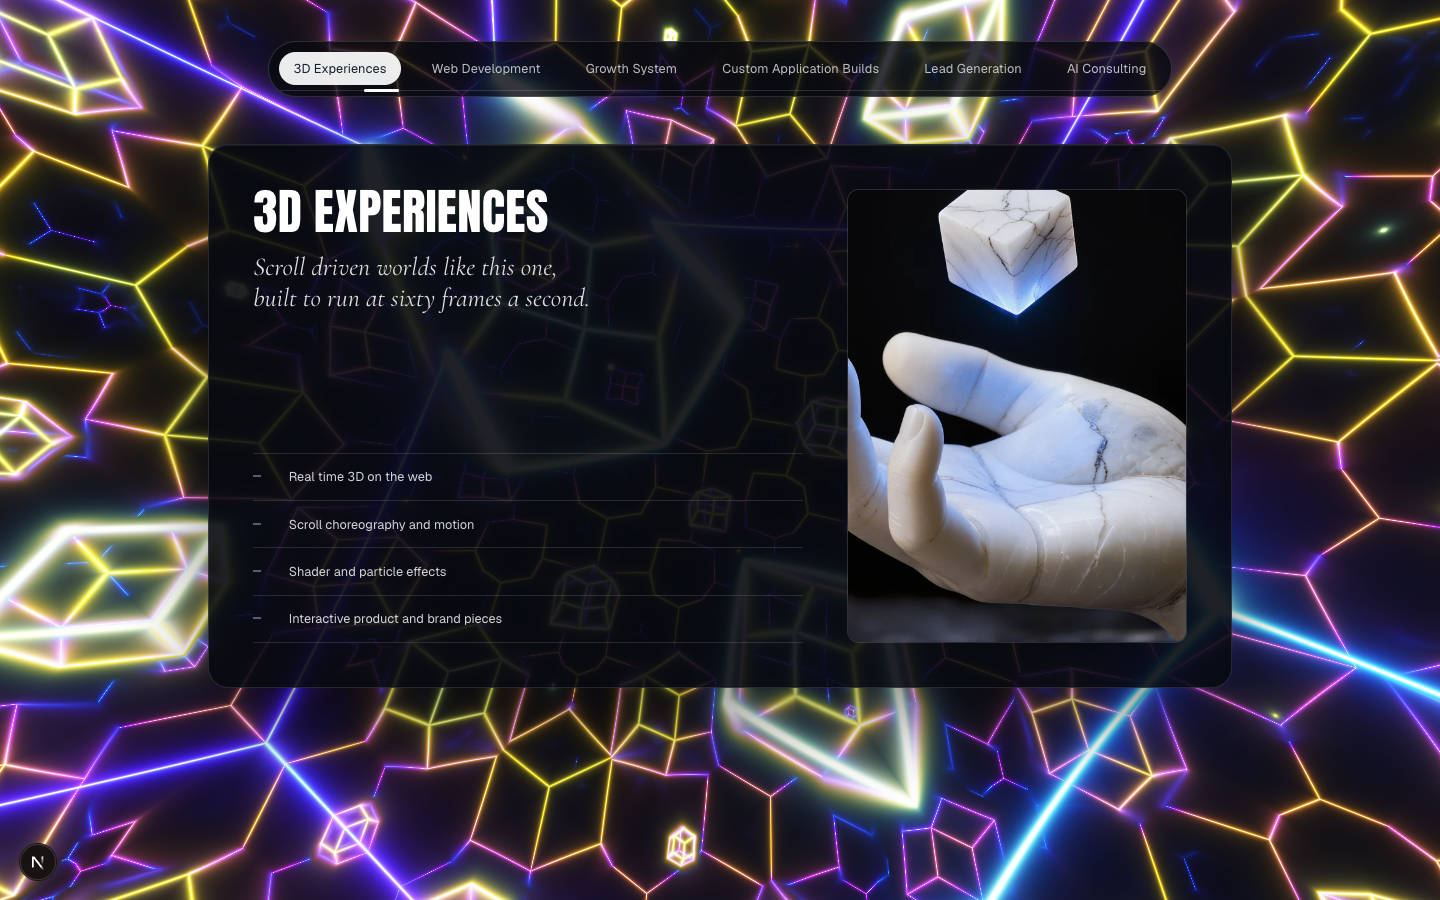
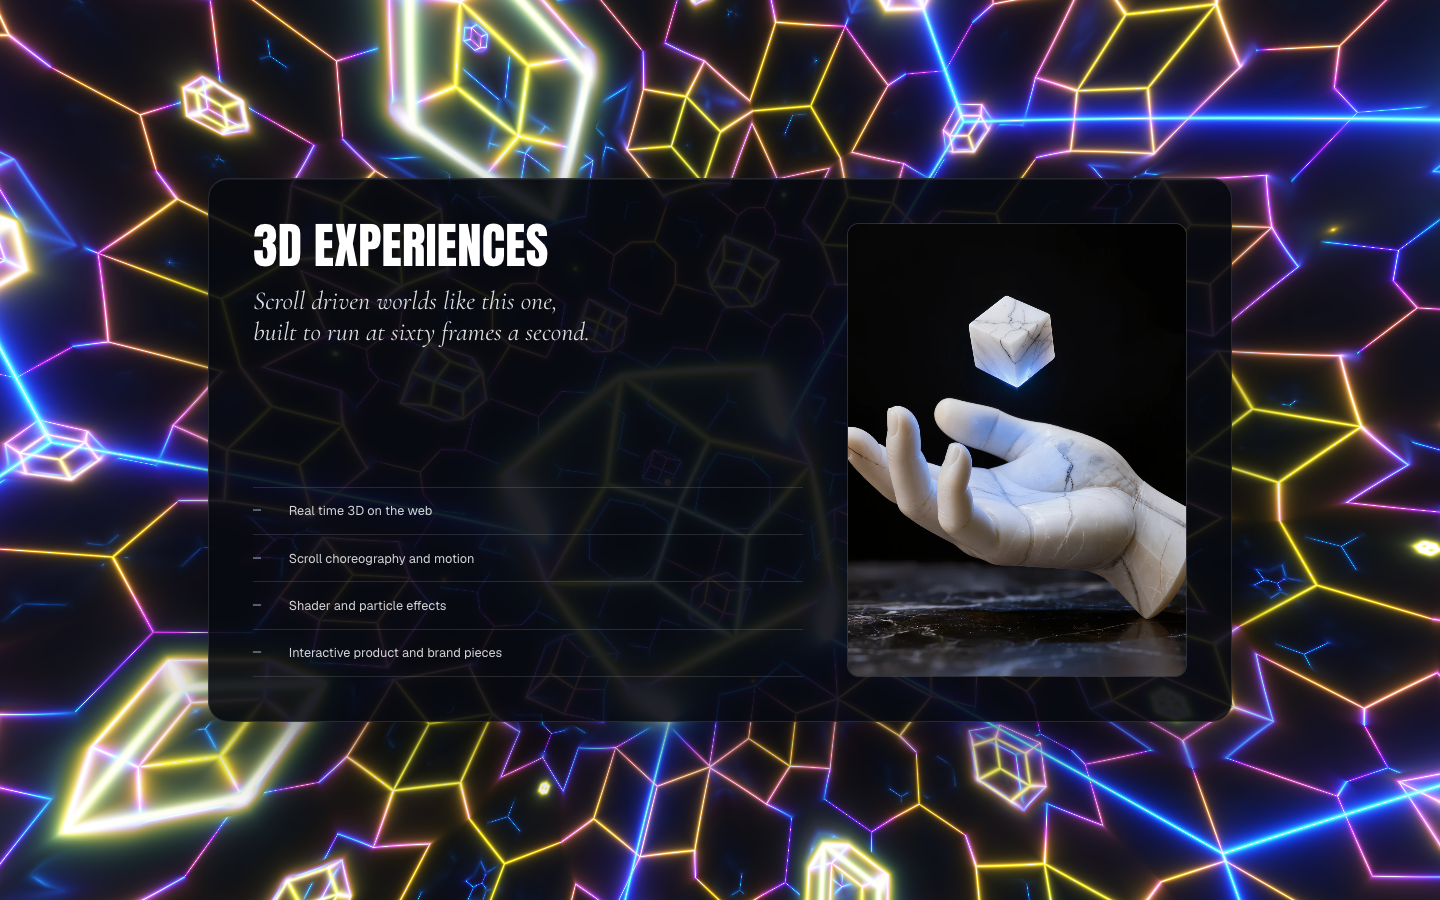
Services as a scroll driven deck: cards slide in from the right, hold, leave left; heading and tab bar removed
Claude-Session: https://claude.ai/code/session_01NAdPXLUXCGhh82qBsMYyAh

diff --git a/src/hero/ServiceTabs.tsx b/src/hero/ServiceTabs.tsx
@@ -1,25 +1,17 @@
 "use client";
 import { useEffect, useRef, useState } from "react";
-import { SERVICES, SECTION_HEADING } from "@/portal/services";
-import { onProgress, progress, scrollControl } from "./progress";
-import { HERO_FRACTION, Q, remap } from "./beats";
-import { holdCentre, qForTruck, railX } from "@/portal/rail";
+import { SERVICES } from "@/portal/services";
+import { onProgress, progress } from "./progress";
+import { Q, remap } from "./beats";
+import { railX } from "@/portal/rail";
 import { CARDS } from "@/portal/PortalScene";
 
 /**
- * The services inside the laptop. A row of tabs over the screen; the scroll opens each in turn as the rail
- * reaches its card, the open one shows the service's sentence and points. Click a tab to glide the scroll there.
+ * The services inside the laptop: a deck of cards driven by the scroll. Each card slides in from the right,
+ * holds at the centre while its stretch of scroll plays out, then slides off to the left as the next arrives.
+ * Position is a pure function of scroll, so it scrubs both ways.
  */
-function activeIndex(q: number): number {
-  const u = remap(q, Q.truck[0], Q.truck[1]);
-  const x = railX(u);
-  let best = 0, bd = Infinity;
-  CARDS.forEach((c, i) => { const d = Math.abs(c.x - x); if (d < bd) { bd = d; best = i; } });
-  return best;
-}
-
-/** continuous position along the tabs: 0 at the first card, 5 at the last, fractional while travelling */
-function tabPosition(q: number): number {
+function deckPosition(q: number): number {
   const x = railX(remap(q, Q.truck[0], Q.truck[1]));
   for (let i = 0; i < CARDS.length - 1; i++) {
     const a = CARDS[i].x, b = CARDS[i + 1].x;
@@ -29,75 +21,52 @@ function tabPosition(q: number): number {
 }
 
 export function ServiceTabs() {
-  const [active, setActive] = useState(-1);
   const [visible, setVisible] = useState(false);
-  const [heading, setHeading] = useState(false);
-  const tabRefs = useRef<(HTMLButtonElement | null)[]>([]);
-  const marker = useRef<HTMLSpanElement>(null);
+  const cards = useRef<(HTMLElement | null)[]>([]);
 
   useEffect(() => {
     const apply = () => {
       const q = progress.q;
       const inside = q > Q.arrive[0] && q < Q.turnBack[1];
       setVisible(inside);
-      setHeading(q > Q.arrive[0] && q < Q.truck[0] - 0.005);
-      setActive(q >= Q.truck[0] && q <= Q.turnBack[0] ? activeIndex(q) : -1);
-      // the marker sits under the tab you are on, and slides between tabs while travelling
-      const pos = tabPosition(q);
-      const i = Math.min(CARDS.length - 2, Math.floor(pos));
-      const f = pos - i;
-      const a = tabRefs.current[i], b = tabRefs.current[i + 1], m = marker.current;
-      if (a && b && m) {
-        const left = a.offsetLeft + (b.offsetLeft - a.offsetLeft) * f;
-        const width = a.offsetWidth + (b.offsetWidth - a.offsetWidth) * f;
-        m.style.transform = `translateX(${left}px)`;
-        m.style.width = `${width}px`;
-      }
+      // before the deck starts the first card is still off to the right; after it ends the last has left
+      const lead = remap(q, Q.arrive[0] + 0.02, Q.truck[0]);          // first card arriving
+      const tail = remap(q, Q.turnBack[0], Q.turnBack[1]);             // last card leaving
+      const pos = q < Q.truck[0] ? -1 + lead : q > Q.turnBack[0] ? CARDS.length - 1 + tail : deckPosition(q);
+      const step = window.innerWidth * 0.92;
+      cards.current.forEach((el, i) => {
+        if (!el) return;
+        const d = i - pos;                       // 0 centred, +1 one card to the right, -1 one to the left
+        const x = d * step;
+        const hidden = Math.abs(d) > 1.2;
+        el.style.transform = `translate3d(${x.toFixed(1)}px, 0, 0) rotate(${(d * 1.5).toFixed(2)}deg)`;
+        el.style.opacity = hidden ? "0" : (1 - Math.min(1, Math.abs(d)) * 0.25).toFixed(3);
+        el.style.visibility = hidden ? "hidden" : "visible";
+        el.setAttribute("aria-hidden", Math.abs(d) > 0.5 ? "true" : "false");
+      });
     };
     apply();
     return onProgress(apply);
   }, []);
 
-  const go = (i: number) => scrollControl.toSection(HERO_FRACTION + (1 - HERO_FRACTION) * qForTruck(holdCentre(i)));
-
   return (
-    <div className={`tabs${visible ? " is-visible" : ""}`} aria-label="Services">
-      <h2 className={`tabs__heading${heading ? " is-on" : ""}`}>{SECTION_HEADING}</h2>
-      <div className="tabs__bar" role="tablist">
-        <span className="tabs__marker" aria-hidden="true" ref={marker} />
-        {SERVICES.map((s, i) => (
-          <button
-            key={s.title}
-            ref={(el) => { tabRefs.current[i] = el; }}
-            role="tab"
-            type="button"
-            className={`tabs__tab${active === i ? " is-active" : ""}`}
-            aria-selected={active === i}
-            aria-controls={`service-${i}`}
-            onClick={() => go(i)}
-          >
-            {s.title}
-          </button>
-        ))}
-      </div>
-      <div className="tabs__panels">
-        {SERVICES.map((s, i) => (
-          <section key={s.title} id={`service-${i}`} role="tabpanel" className={`tabs__panel${active === i ? " is-open" : ""}`} aria-hidden={active !== i}>
-            <div className="tabs__text">
-              <h3 className="tabs__title tabs__in" style={{ "--i": 0 } as React.CSSProperties}>{s.title}</h3>
-              <p className="tabs__lead tabs__in" style={{ "--i": 1 } as React.CSSProperties}>{s.lead}</p>
-              {s.points.length > 0 && (
-                <ul className="tabs__points">
-                  {s.points.map((p, j) => <li key={p} className="tabs__in" style={{ "--i": 2 + j * 0.5 } as React.CSSProperties}>{p}</li>)}
-                </ul>
-              )}
-            </div>
-            <figure className="tabs__figure tabs__in" style={{ "--i": 1.5 } as React.CSSProperties}>
-              <img src={s.image} alt={s.alt} loading="lazy" width={1200} height={1200} />
-            </figure>
-          </section>
-        ))}
-      </div>
+    <div className={`deck${visible ? " is-visible" : ""}`} aria-label="Services">
+      {SERVICES.map((s, i) => (
+        <section key={s.title} className="deck__card" ref={(el) => { cards.current[i] = el; }}>
+          <div className="deck__text">
+            <h3 className="deck__title">{s.title}</h3>
+            <p className="deck__lead">{s.lead}</p>
+            {s.points.length > 0 && (
+              <ul className="deck__points">
+                {s.points.map((p) => <li key={p}>{p}</li>)}
+              </ul>
+            )}
+          </div>
+          <figure className="deck__figure">
+            <img src={s.image} alt={s.alt} loading="lazy" width={1200} height={1200} />
+          </figure>
+        </section>
+      ))}
     </div>
   );
 }

diff --git a/src/app/globals.css b/src/app/globals.css
@@ -399,145 +399,51 @@ footer.section {
 
 
 /* ---------- services inside the laptop ----------
-   Sizes on a golden ratio scale: panel width 61.8vw capped, tab bar to panel gap, padding steps of phi. */
-.tabs {
+   A deck of cards. Each slides in from the right, holds at the centre, and leaves to the left as the next arrives.
+   Sizes on a golden ratio scale. */
+.deck {
   position: absolute;
   inset: 0;
   z-index: 5;
   pointer-events: none;
   opacity: 0;
-  transition: opacity 500ms ease;
+  transition: opacity 400ms ease;
   color: white;
   --phi: 1.618;
   --pad: clamp(1rem, 1.9vw, 1.9rem);
 }
-.tabs.is-visible {
+.deck.is-visible {
   opacity: 1;
 }
-.tabs__heading {
+.deck__card {
   position: absolute;
   left: 50%;
-  top: 38.2%;
-  transform: translate(-50%, -50%);
-  margin: 0;
-  font-family: var(--font-display);
-  font-style: italic;
-  font-weight: 500;
-  font-size: clamp(var(--step-4), 5vw, var(--step-7));
-  line-height: 1;
-  opacity: 0;
-  transition: opacity 600ms ease;
-  text-shadow: 0 2px 24px rgba(0, 0, 0, 0.55);
-}
-.tabs__heading.is-on {
-  opacity: 1;
-}
-.tabs__bar {
-  position: absolute;
-  left: 50%;
-  top: clamp(1rem, 4.5vh, 3rem);
-  transform: translateX(-50%);
-  display: flex;
-  gap: calc(var(--pad) / var(--phi));
-  padding: calc(var(--pad) / var(--phi) / var(--phi));
-  border-radius: 999px;
-  background: rgba(7, 9, 15, 0.82);
-  backdrop-filter: blur(18px) saturate(1.1);
-  -webkit-backdrop-filter: blur(18px) saturate(1.1);
-  border: 1px solid rgba(255, 255, 255, 0.14);
-  pointer-events: auto;
-  max-width: calc(100vw - 2rem);
-  overflow-x: auto;
-  scrollbar-width: none;
-}
-/* the marker sits under the tab you are on and slides between tabs while the scroll travels */
-.tabs__marker {
-  position: absolute;
-  left: 0;
-  bottom: 0.25rem;
-  height: 2px;
-  width: 0;
-  border-radius: 2px;
-  background: white;
-  transform: translateX(0);
-  transition: transform 140ms linear, width 140ms linear;
-  pointer-events: none;
-}
-.tabs__tab {
-  appearance: none;
-  border: 0;
-  background: transparent;
-  color: rgba(255, 255, 255, 0.72);
-  font-family: var(--font-body);
-  font-size: var(--step--1);
-  letter-spacing: 0.01em;
-  padding: 0.55em 1.1em;
-  border-radius: 999px;
-  white-space: nowrap;
-  cursor: pointer;
-  transition: background 200ms ease, color 200ms ease;
-}
-.tabs__tab:hover {
-  color: white;
-}
-.tabs__tab.is-active {
-  background: rgba(255, 255, 255, 0.92);
-  color: var(--ink);
-}
-.tabs__tab:focus-visible {
-  outline: 2px solid white;
-  outline-offset: 2px;
-}
-.tabs__panels {
-  position: absolute;
-  left: 50%;
-  top: clamp(6rem, 17vh, 9rem);
-  transform: translateX(-50%);
+  top: 50%;
   width: min(76vw, 64rem);
   height: min(61.8vh, 34rem);
-}
-.tabs__panel {
-  position: absolute;
-  inset: 0;
+  margin: calc(min(61.8vh, 34rem) / -2) 0 0 calc(min(76vw, 64rem) / -2);
   display: grid;
   grid-template-columns: 1fr 0.618fr;
   gap: calc(var(--pad) * var(--phi));
   padding: calc(var(--pad) * var(--phi));
-  overflow: hidden;
   border-radius: 1.25rem;
   background: rgba(7, 9, 15, 0.9);
   backdrop-filter: blur(22px) saturate(1.1);
   -webkit-backdrop-filter: blur(22px) saturate(1.1);
   border: 1px solid rgba(255, 255, 255, 0.12);
   box-shadow: 0 30px 80px rgba(0, 0, 0, 0.45), inset 0 1px 0 rgba(255, 255, 255, 0.06);
-  opacity: 0;
-  transform: translateY(1.2rem) scale(0.985);
-  transition: opacity 420ms cubic-bezier(0.2, 0.7, 0.2, 1), transform 520ms cubic-bezier(0.2, 0.7, 0.2, 1);
-  pointer-events: none;
-}
-.tabs__panel.is-open {
-  opacity: 1;
-  transform: none;
+  overflow: hidden;
+  will-change: transform, opacity;
   pointer-events: auto;
-}
-/* children arrive in order once the panel opens */
-.tabs__in {
+  visibility: hidden;
   opacity: 0;
-  transform: translateY(0.5rem);
-  transition: opacity 420ms ease, transform 520ms cubic-bezier(0.2, 0.7, 0.2, 1);
-  transition-delay: 0ms;
 }
-.tabs__panel.is-open .tabs__in {
-  opacity: 1;
-  transform: none;
-  transition-delay: calc(90ms + var(--i) * 70ms);
-}
-.tabs__text {
+.deck__text {
   display: flex;
   flex-direction: column;
   min-width: 0;
 }
-.tabs__title {
+.deck__title {
   margin: 0 0 calc(var(--pad) / var(--phi));
   font-family: var(--font-wordmark);
   font-weight: 400;
@@ -546,21 +452,7 @@ footer.section {
   line-height: 0.92;
   letter-spacing: 0.005em;
 }
-.tabs__figure {
-  margin: 0;
-  border-radius: 0.75rem;
-  overflow: hidden;
-  align-self: stretch;
-  background: rgba(255, 255, 255, 0.04);
-  border: 1px solid rgba(255, 255, 255, 0.1);
-}
-.tabs__figure img {
-  width: 100%;
-  height: 100%;
-  object-fit: cover;
-  display: block;
-}
-.tabs__lead {
+.deck__lead {
   margin: 0;
   font-family: var(--font-display);
   font-style: italic;
@@ -570,41 +462,51 @@ footer.section {
   max-width: 30ch;
   text-wrap: balance;
 }
-.tabs__points {
+.deck__points {
   margin: auto 0 0;
-  padding-top: var(--pad);
-  padding-left: 0;
+  padding: var(--pad) 0 0;
   list-style: none;
   display: grid;
-  gap: 0;
   font-family: var(--font-body);
   font-size: var(--step--1);
   color: rgba(255, 255, 255, 0.82);
 }
-.tabs__points li {
+.deck__points li {
   padding: calc(var(--pad) / var(--phi) / 1.25) 0;
   border-top: 1px solid rgba(255, 255, 255, 0.12);
   display: flex;
   align-items: baseline;
   gap: var(--pad);
 }
-.tabs__points li::before {
+.deck__points li::before {
   content: "";
   flex: none;
   width: 0.5rem;
   height: 1px;
-  background: var(--accent-cold, #9fb1c6);
+  background: #9fb1c6;
   transform: translateY(-0.35em);
 }
-.tabs__points li:last-child {
+.deck__points li:last-child {
   border-bottom: 1px solid rgba(255, 255, 255, 0.12);
 }
+.deck__figure {
+  margin: 0;
+  border-radius: 0.75rem;
+  overflow: hidden;
+  align-self: stretch;
+  background: rgba(255, 255, 255, 0.04);
+  border: 1px solid rgba(255, 255, 255, 0.1);
+}
+.deck__figure img {
+  width: 100%;
+  height: 100%;
+  object-fit: cover;
+  display: block;
+}
 @media (prefers-reduced-motion: reduce) {
-  .tabs, .tabs__heading, .tabs__panel { transition: none; }
+  .deck { transition: none; }
 }
 @media (max-width: 820px) {
-  .tabs__panels { width: calc(100vw - 2rem); top: 5.5rem; height: auto; bottom: 2rem; }
-  .tabs__panel { grid-template-columns: 1fr; }
-  .tabs__figure { display: none; }
-  .tabs__bar { top: 0.75rem; }
+  .deck__card { width: calc(100vw - 2rem); margin-left: calc((100vw - 2rem) / -2); grid-template-columns: 1fr; }
+  .deck__figure { display: none; }
 }
